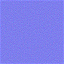
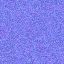
Bug fix: Noise didn't work.

diff --git a/ambient_occlusion_renderer.js b/ambient_occlusion_renderer.js
@@ -30,6 +30,8 @@ AmbientOcclusionRenderer.prototype.setupRandomTexture = function() {
 
   gl.texParameteri(gl.TEXTURE_2D, gl.TEXTURE_MAG_FILTER, gl.NEAREST);
   gl.texParameteri(gl.TEXTURE_2D, gl.TEXTURE_MIN_FILTER, gl.NEAREST);
+  gl.texParameteri(gl.TEXTURE_2D, gl.TEXTURE_WRAP_S, gl.REPEAT);
+  gl.texParameteri(gl.TEXTURE_2D, gl.TEXTURE_WRAP_T, gl.REPEAT);
   gl.bindTexture(gl.TEXTURE_2D, null);
   this.randomTexture = texture;
 };
@@ -117,6 +119,12 @@ AmbientOcclusionRenderer.prototype.draw = function() {
 
   var samplingRadiusUniformHandle = this.shaderProgram.getUniformHandle('SamplingRadius');
   gl.uniform1f(samplingRadiusUniformHandle, this.config.samplingRadius);
+
+  var RandomTextureScalingUniformHandle = this.shaderProgram.getUniformHandle('RandomTextureScaling');
+  gl.uniform2fv(RandomTextureScalingUniformHandle, new Float32Array([
+    1000/64,
+    400/64
+  ]));
 
   gl.activeTexture(gl.TEXTURE0);
   gl.bindTexture(gl.TEXTURE_2D, this.positionDistanceTexture);

diff --git a/renderer.js b/renderer.js
@@ -197,6 +197,7 @@ Renderer.prototype.setupAmbientOcclusionProgram = function() {
   program.setupUniformHandle('ConstantAttenuation');
   program.setupUniformHandle('DistanceAttenuation');
   program.setupUniformHandle('SamplingRadius');
+  program.setupUniformHandle('RandomTextureScaling');
 };
 
 Renderer.prototype.setupPerspective = function() {
